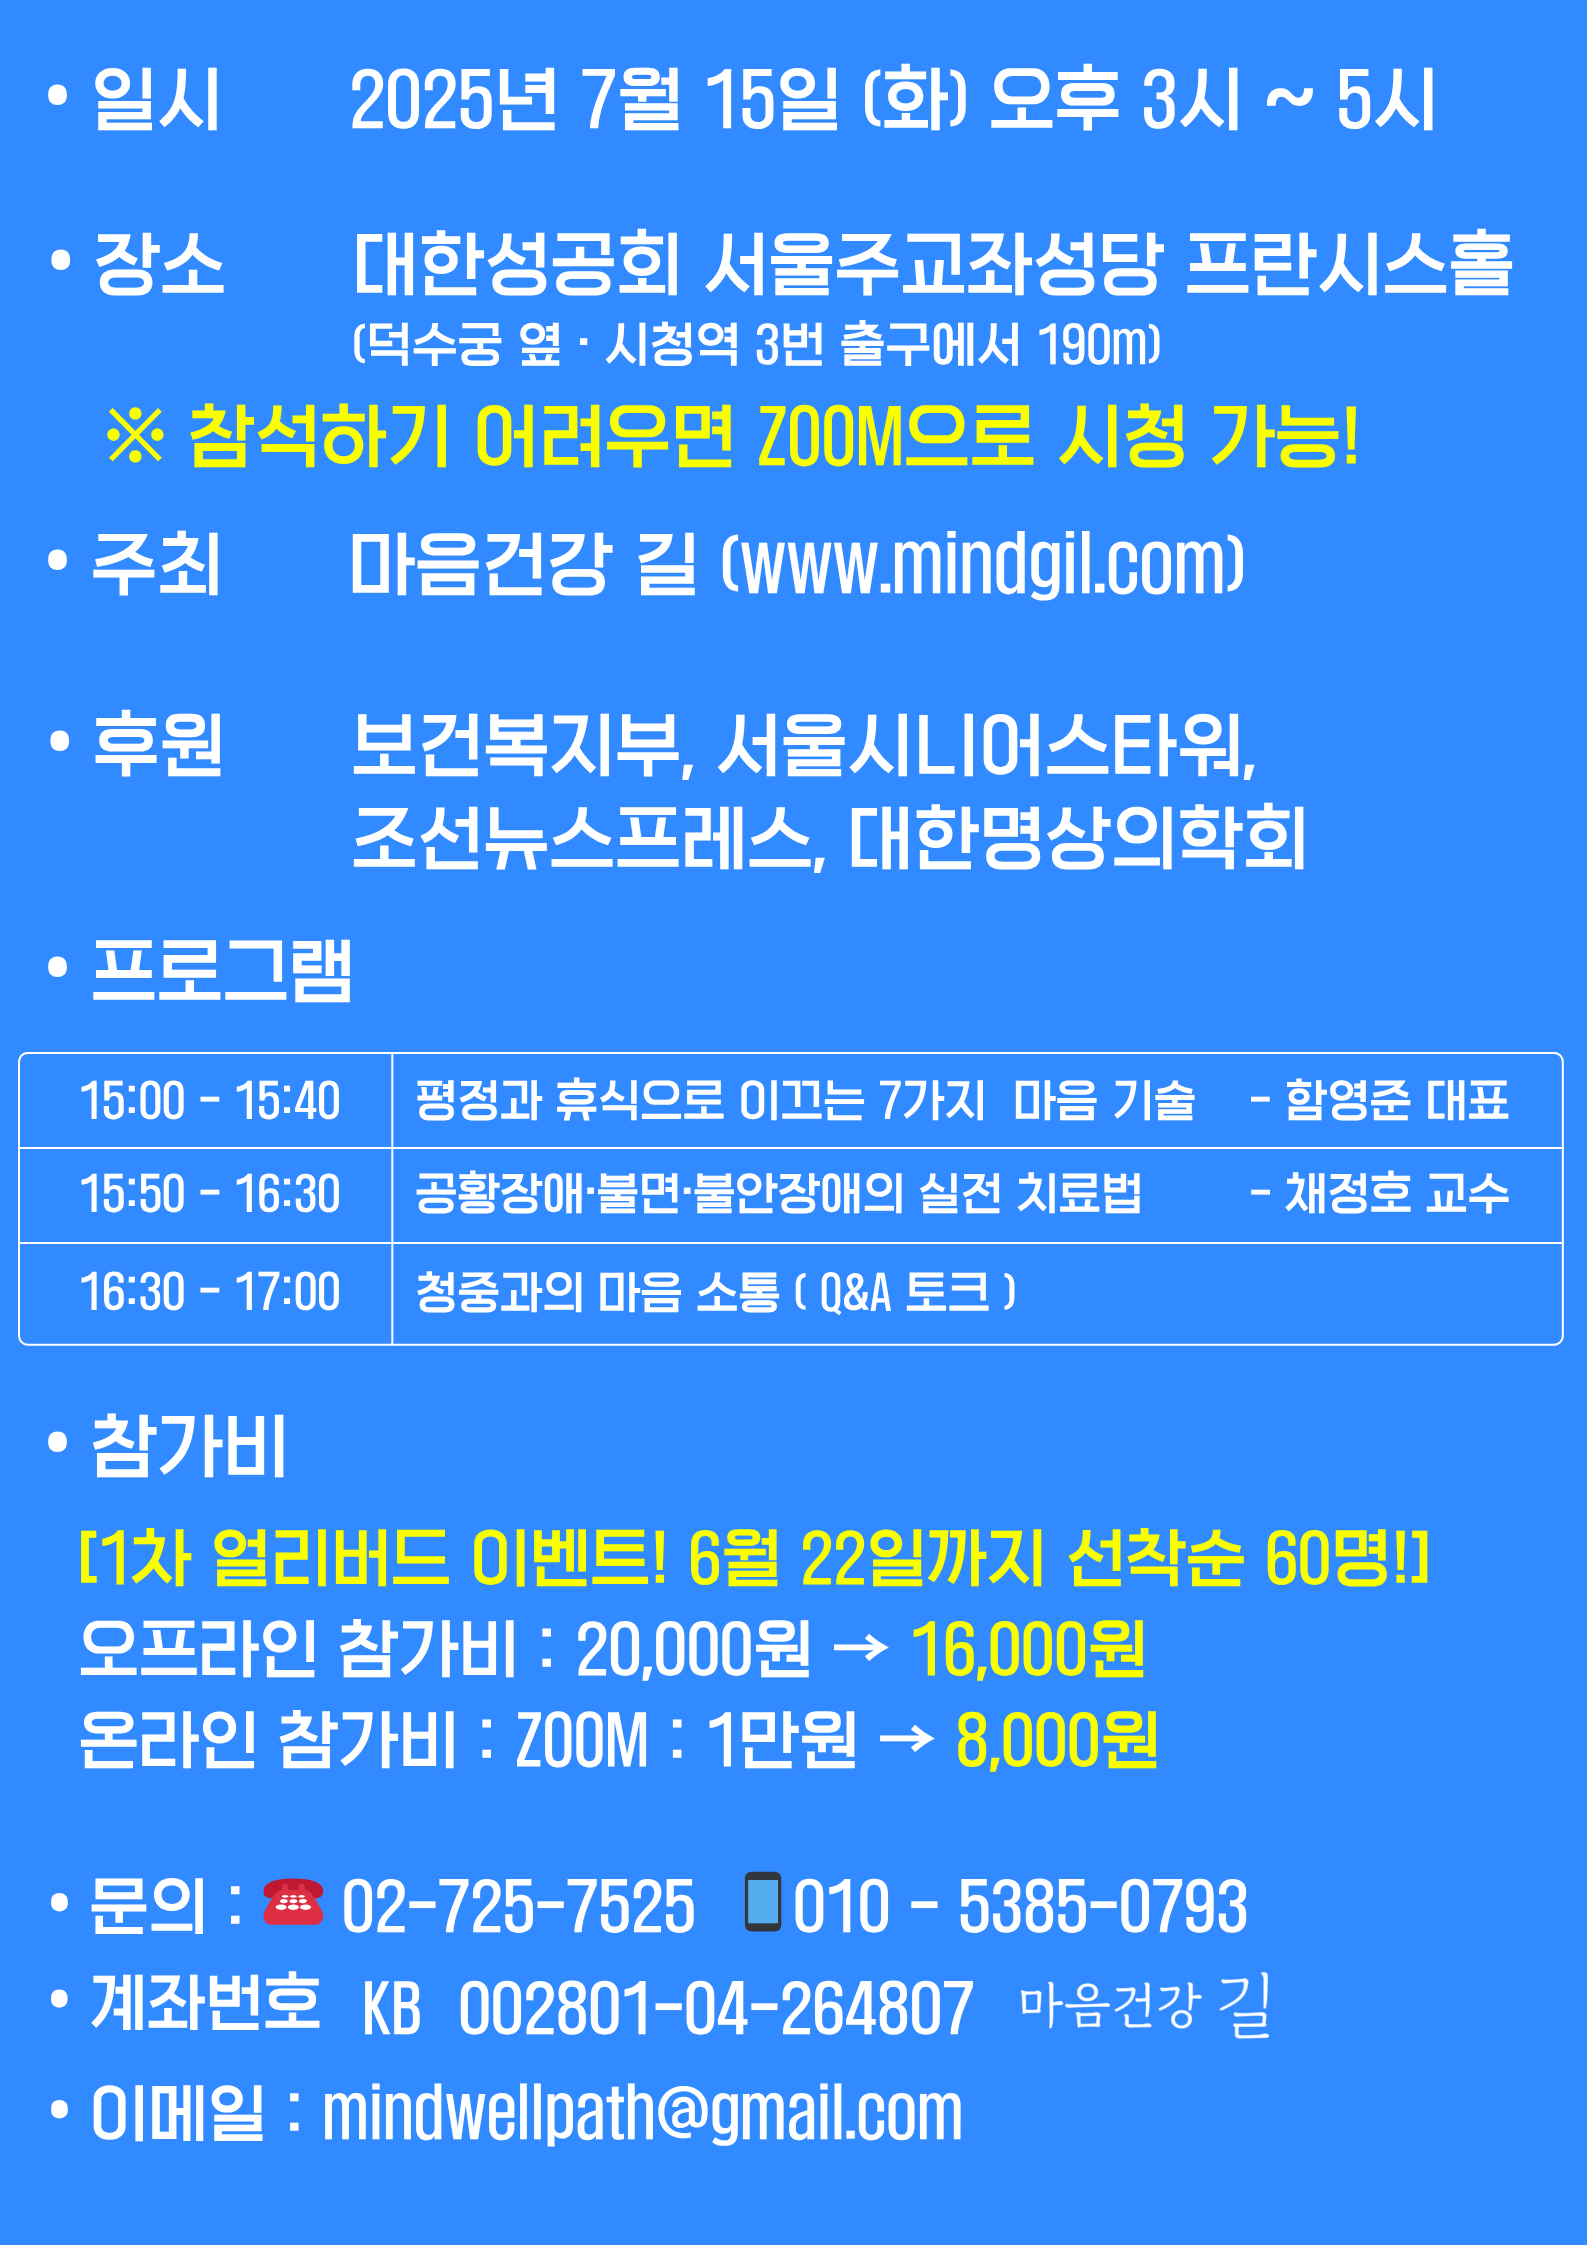
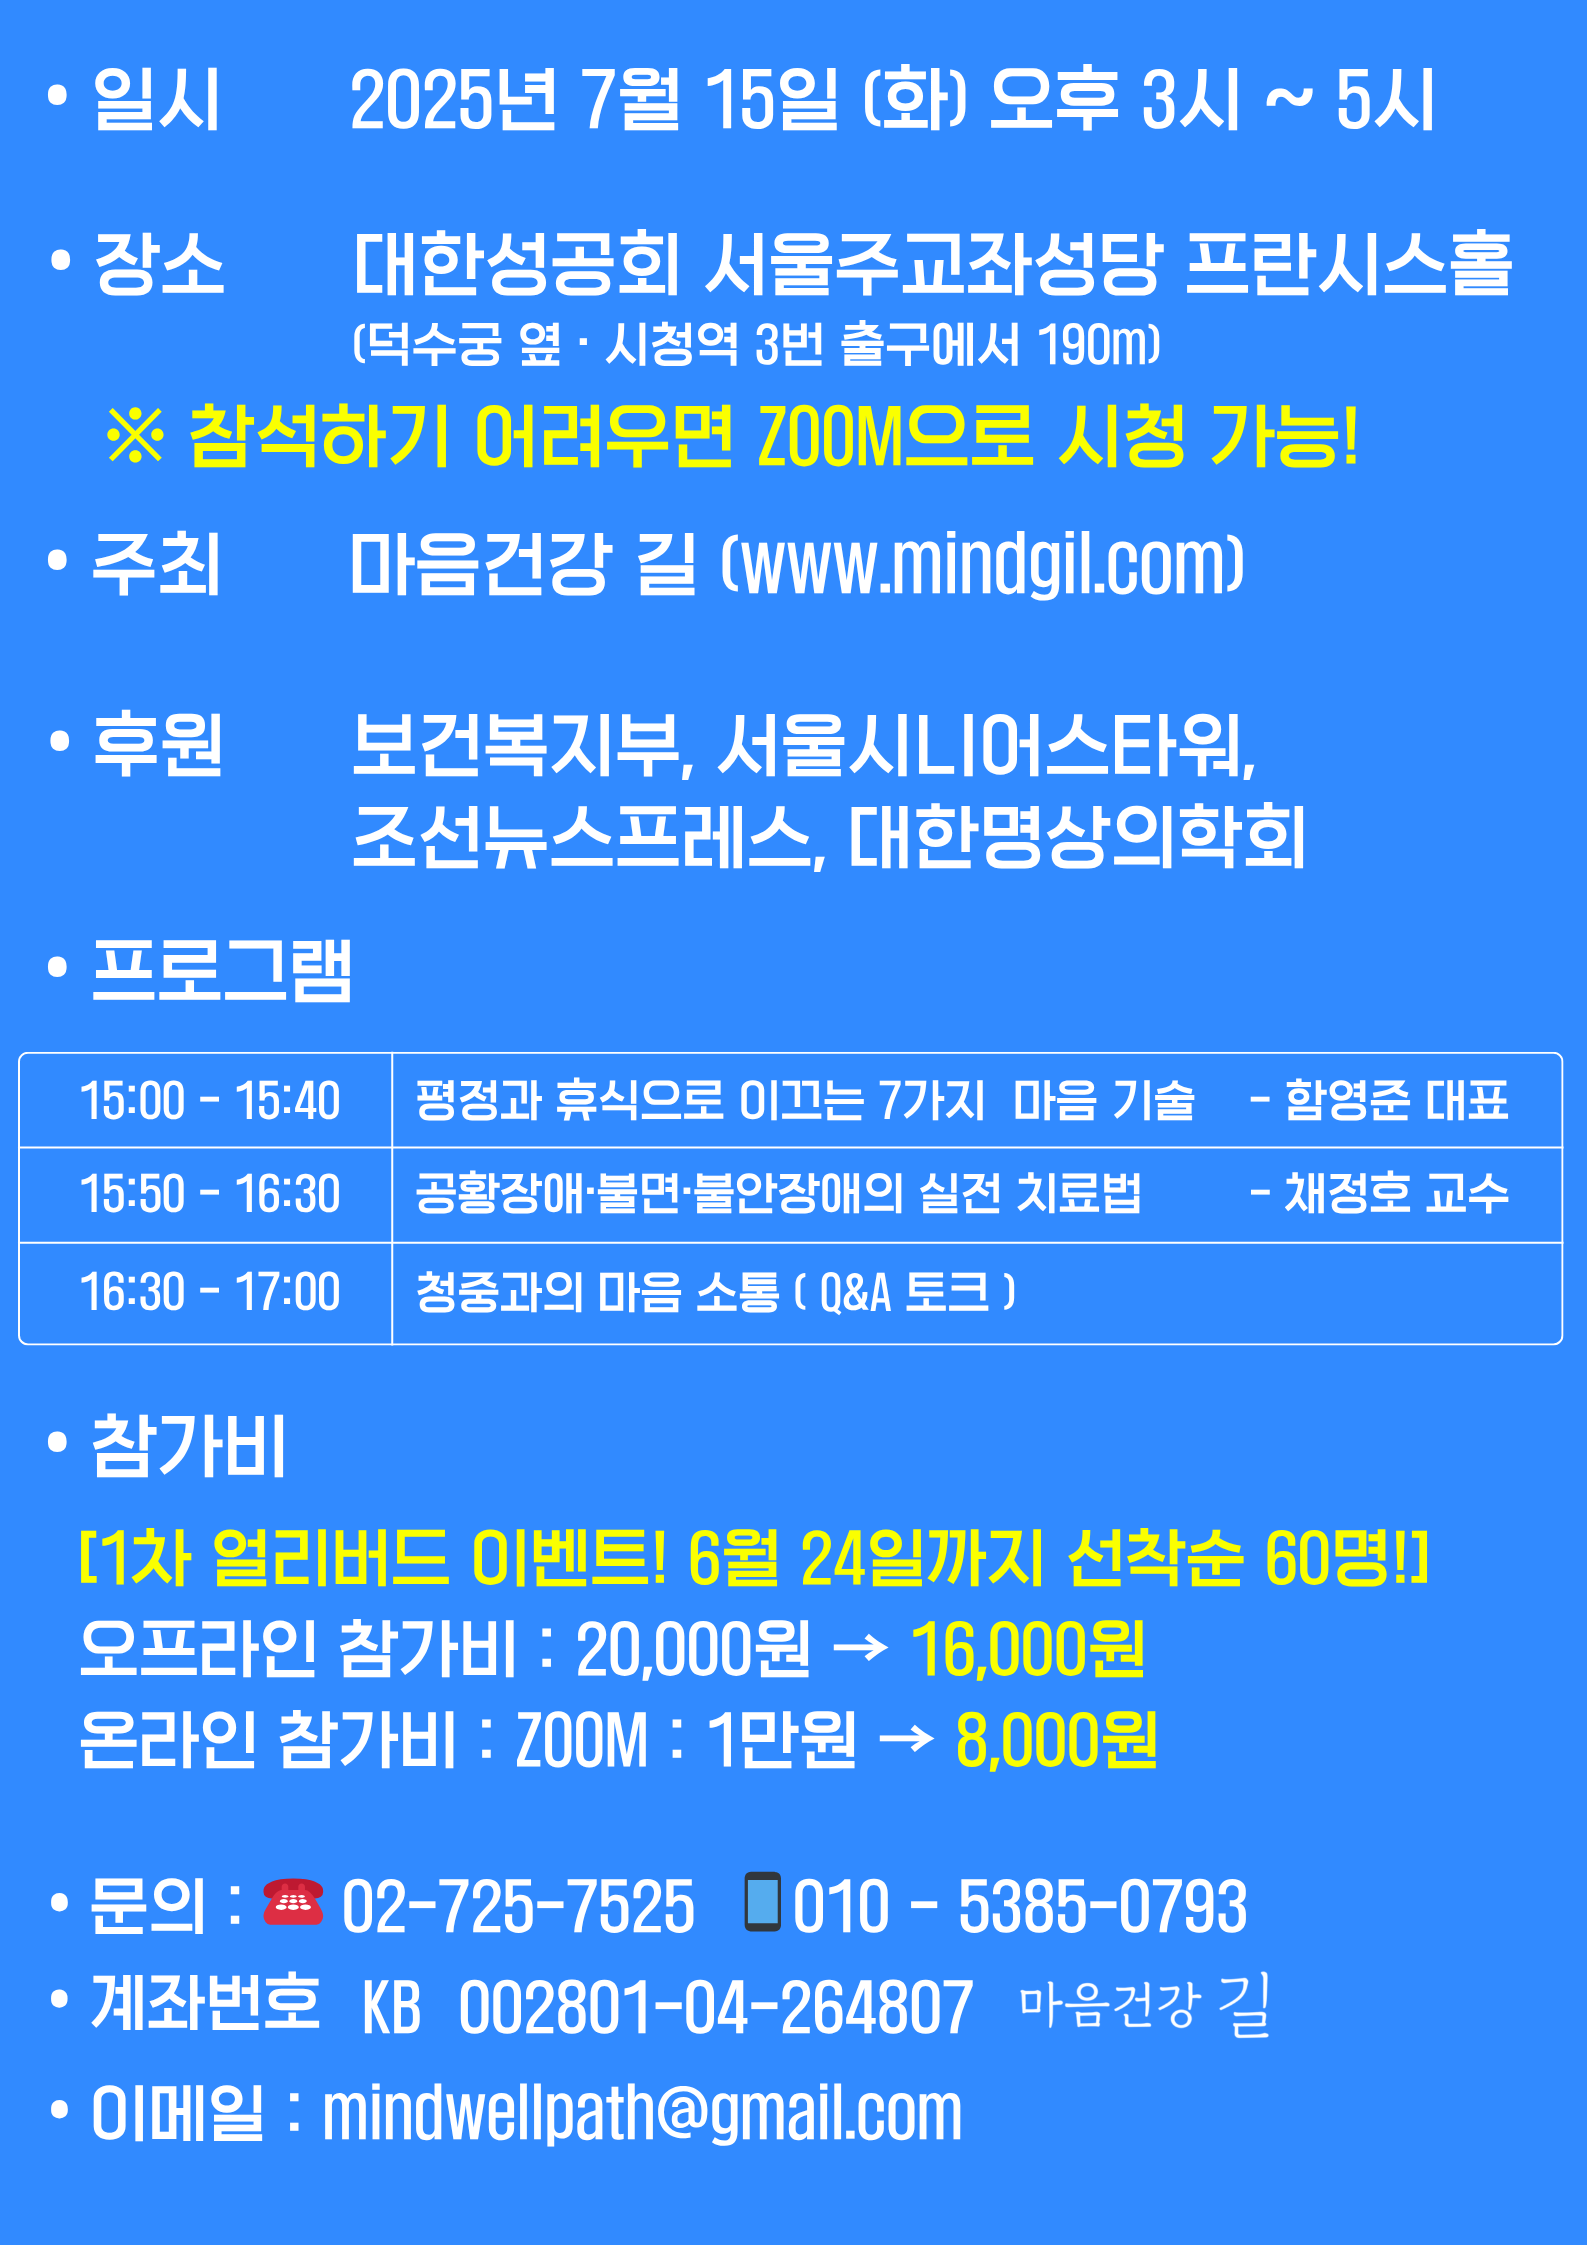
update event time

diff --git a/cnf-v2-cmt.html b/cnf-v2-cmt.html
@@ -985,7 +985,7 @@ font-size: 15px;
       <div class="col-md-4 content-box" style="flex: 1; padding: 10px;">
         <a href="#fm-box" class="scroll">
         <div class="box" style="padding: 20px; border-radius: 10px; display: flex; align-items: center; justify-content: center; box-sizing: border-box;">
-          <p>6월 22일까지만!</p>
+          <p>6월 24일까지만!</p>
         </div>
       </a>
       </div>

diff --git a/cnf-v2-meta.html b/cnf-v2-meta.html
@@ -985,7 +985,7 @@ font-size: 15px;
       <div class="col-md-4 content-box" style="flex: 1; padding: 10px;">
         <a href="#fm-box" class="scroll">
         <div class="box" style="padding: 20px; border-radius: 10px; display: flex; align-items: center; justify-content: center; box-sizing: border-box;">
-          <p>6월 22일까지만!</p>
+          <p>6월 24일까지만!</p>
         </div>
       </a>
       </div>

diff --git a/lib/contactform/countdown-1d-7.js b/lib/contactform/countdown-1d-7.js
@@ -1,6 +1,6 @@
 $(function () {
-    var targetDate = new Date("2025-06-22T23:59:00+09:00"); // 마감 시각
-    var today      = new Date("2025-06-22T23:59:00+09:00");
+    var targetDate = new Date("2025-06-24T23:59:00+09:00"); // 마감 시각
+    var today      = new Date("2025-06-24T23:59:00+09:00");
     var year  = today.getFullYear();
     var month = today.getMonth() + 1;
     var day   = today.getDate();
